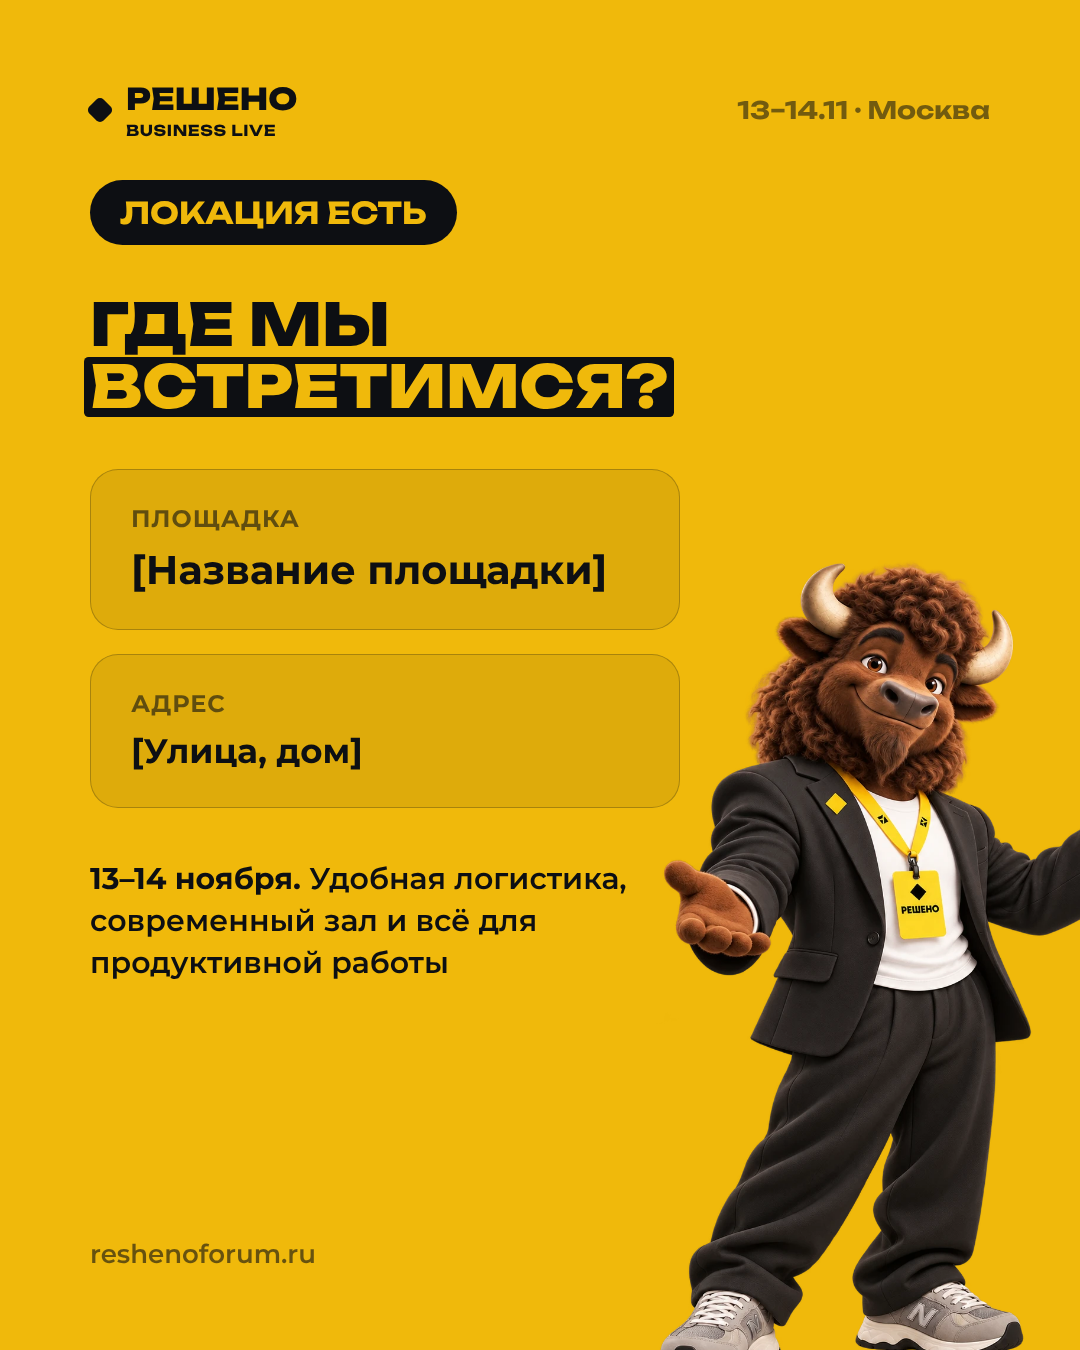
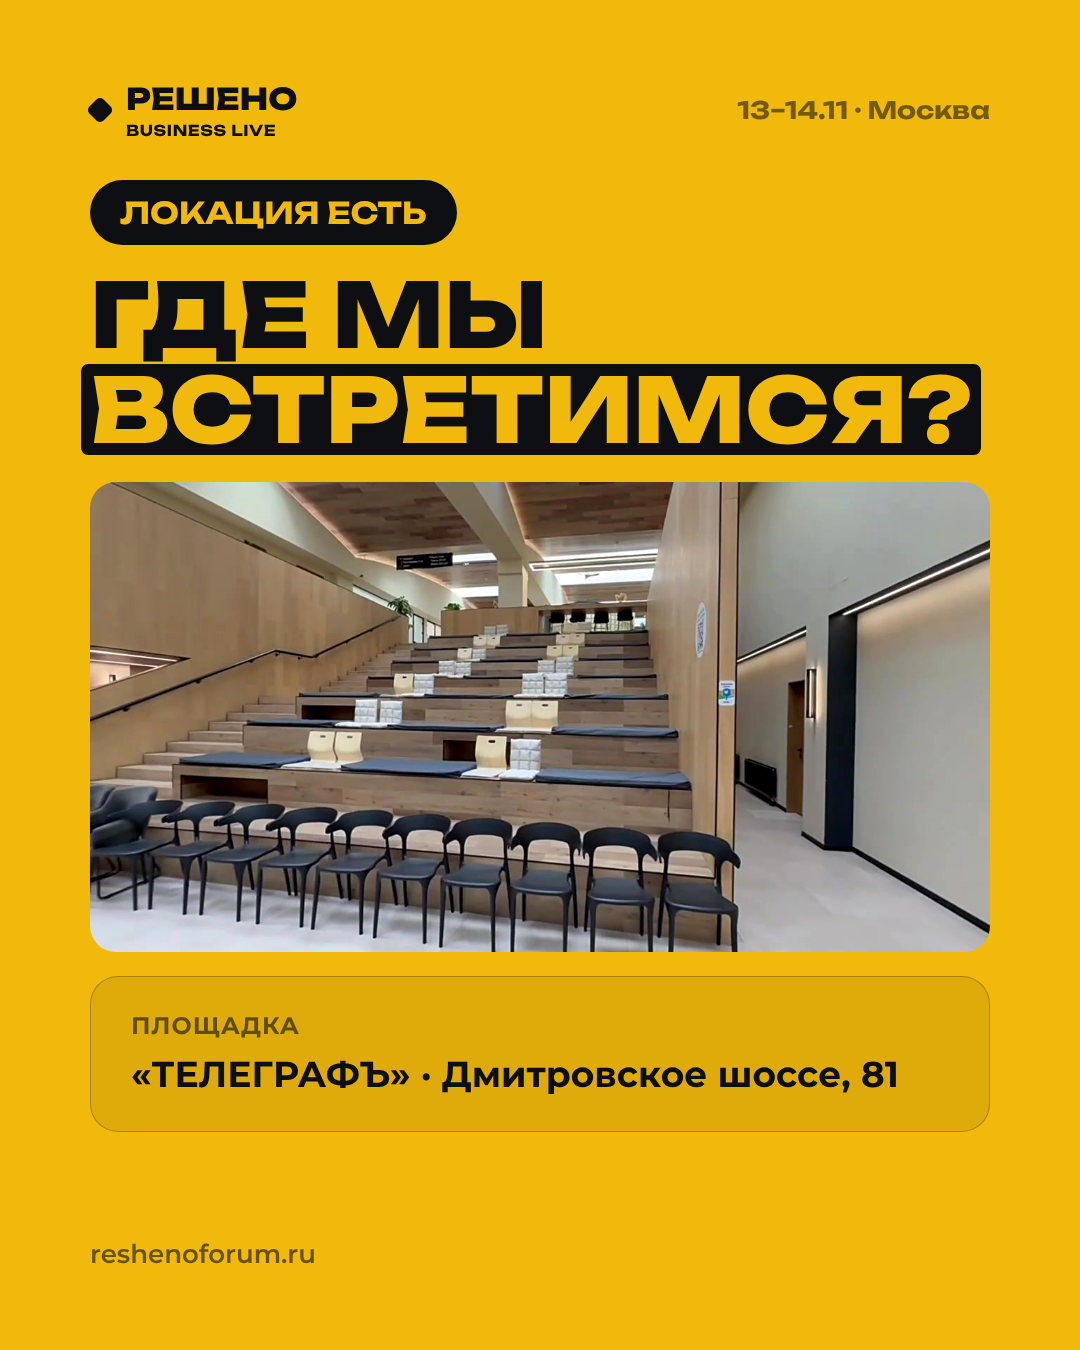
Final week: venue ТЕЛЕГРАФЪ (Дмитровское ш., 81, 10:00) + venue photo from video
Claude-Session: https://claude.ai/code/session_015DfynR8ViCbDyQMuNVS5SH

diff --git a/content/nedelya-final_08.11-12.11/README.md b/content/nedelya-final_08.11-12.11/README.md
@@ -8,5 +8,5 @@
 | Ср 11.11 | `04-sr-11.11-top-spikery/post.png` — 8 спикеров (утро) · `post-podgotovka.png` — чек-лист (вечер) | `storis-otschet/11.11-2.png` |
 | Чт 12.11 | `05-cht-12.11-zavtra-start/post.png` — «Завтра старт» | `storis-otschet/12.11-1.png` |
 
-**До публикации:** площадка, адрес, время регистрации и закрытия продаж стоят как `[…]`. Вписать в начало `content/_kit/w-final.mjs` (VENUE, ADDRESS, REG, CLOSE) и перерендерить: `node render.mjs w-final.mjs`. На 08.11 по плану нужно фото площадки — пришлите, добавим.
+**Данные площадки:** «ТЕЛЕГРАФЪ», Дмитровское шоссе, 81, начало 13.11 в 10:00 — заданы в начале `content/_kit/w-final.mjs` (VENUE, ADDRESS, START). Фото на 08.11 — кадр из видео площадки (`content/_kit/img/telegraf.jpg`). Перерендер: `node render.mjs w-final.mjs`.
 Силуэты на 10.11 — обезличенные фото спикеров, никого узнать нельзя.
